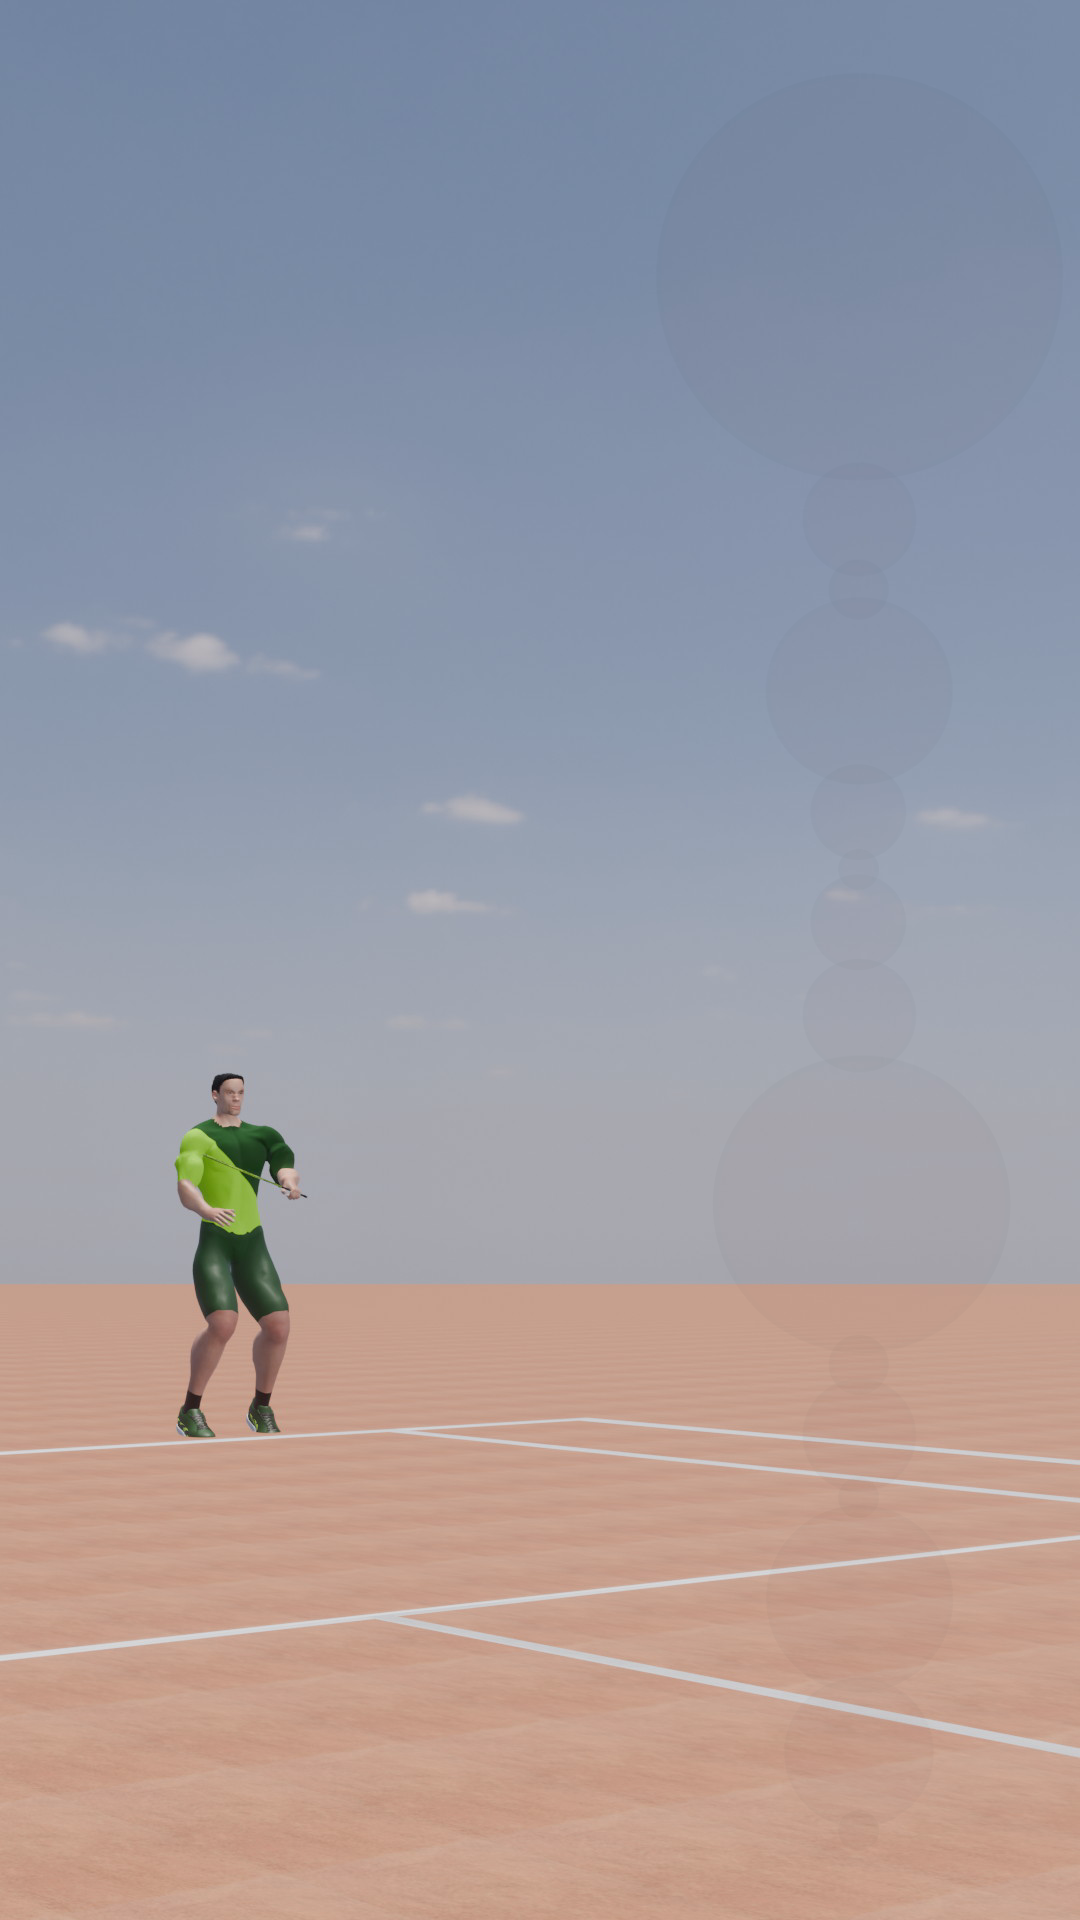
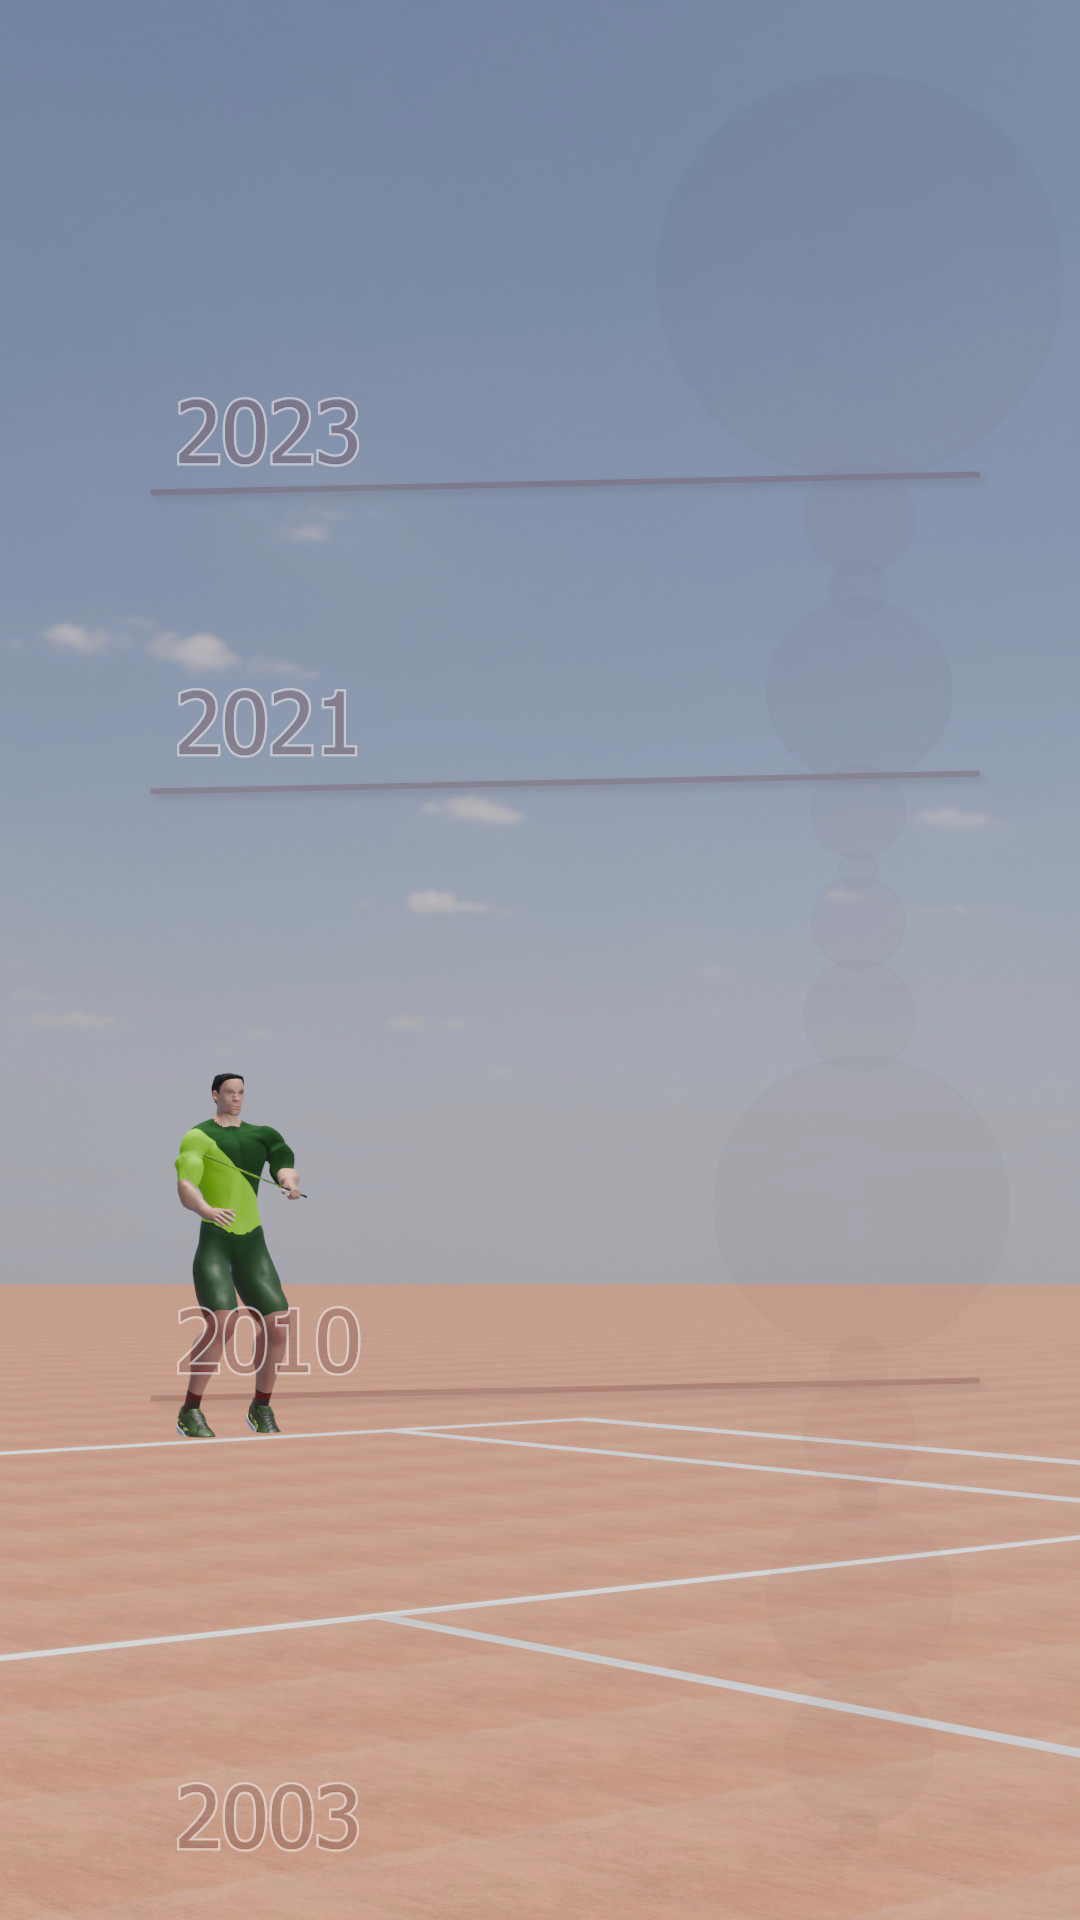
v1.2

diff --git a/styles.css b/styles.css
@@ -1,6 +1,21 @@
 body {
   margin: 0;
+  background-color: #fff8f8;
   font-family: Impact, Haettenschweiler, 'Arial Narrow Bold', sans-serif;
+}
+h1 {
+  font-family: 'Arial', sans-serif;
+  font-size: 2.5em;
+  color: #333; /* Color del texto */
+  text-align: center;
+  margin-bottom: 20px;
+  text-shadow: 2px 2px 4px rgba(0, 0, 0, 0.3); /* Sombra suave */
+}
+p {
+  font-family: Cambria, Cochin, Georgia, Times, 'Times New Roman', serif;
+  width: 80%;
+  margin: auto;
+  padding-bottom: 50px;
 }
 ul {
   list-style: none;
@@ -45,7 +60,7 @@ ul li {
   background-position: center center;
   background-image: url('../premiere/frames_premiere/0000-0860000.png');
 }
-@media only screen and (min-width: 700px){
+@media only screen and (min-width: 700px){ /*ordenador imagen*/
   .image-container {
     height: 100vh;
     width: 100%;
@@ -60,7 +75,8 @@ ul li {
     background-image: url('../premiere/frames_premiere/0000-0860000.png');
   }
 }
-.text-container {
+
+.text-container { /*movil textos*/
     width: 100%;
     height: 100%;
     position: fixed;
@@ -75,7 +91,7 @@ ul li {
       color: darkred;
     text-align: center;
     text-shadow: 1px -3px 2px rgba(0, 0, 0, 0.8);
-    -webkit-text-stroke: 1px white;
+    -webkit-text-stroke: 0.5px white;
     }
     .title { 
       opacity: 0;
@@ -100,7 +116,7 @@ ul li {
     position: absolute;
     margin-right: 10%;
     }
-    @media only screen and (max-width: 699px) {
+    @media only screen and (max-width: 699px) { /*movil cartelas*/
       #cartela-2 {
         margin-top: 75%;
         margin-left: 30%;
@@ -142,7 +158,7 @@ ul li {
     }
     
   }
-  @media only screen and (min-width: 700px){
+  @media only screen and (min-width: 700px){ /*ordenador textos*/
     .text-container {
       width: 35%;
     height: 100%;
@@ -186,13 +202,69 @@ ul li {
     width: 100%;
     position: absolute;
     }
+    .years_texts {
+    width: 100%;
+      height: 100%;
+      position: fixed;
+      display: flex;
+      flex-direction: column;
+      justify-content:center;
+      align-items: start;
+      top: 0;
+      font-family: Cambria, Cochin, Georgia, Times, 'Times New Roman', serif;
+      color: darkred;
+      margin-left: 20%;
+      font-size: 14px;
   }
+  .years_line {
+    width: 20%;
+      height: 50%;
+      border: none;
+      border-bottom: 2px dashed darkred;
+      position: fixed;
+      display: flex;
+      flex-direction: column;
+      justify-content:center;
+      align-items: start;
+      top: 0;
+      margin-left: 20%;
+  }
+  #text23 {
+    justify-content: start;
+    margin-top: 19%;
+  }
+  #line23 {
+    justify-content: center;
+    margin-top: -21%;
+  }
+  #text21 {
+    justify-content: start;
+    margin-top: 32%;
+  }
+  #line21 {
+    justify-content: center;
+    margin-top: -8%;
+  }
+  #text10 {
+    justify-content: start;
+    margin-top: 60%;
+  }
+  #line10 {
+    justify-content: center;
+    margin-top: 20%;
+  }
+  #text03 {
+    justify-content: start;
+    margin-top: 80%;
+  }
+  #line03 {
+    justify-content: center;
+    margin-top: 40%;
+  }
+    }
+
     :root{
       --rojo: darkred;
       --rojosuave: rgba(250, 220, 220, 1);
-
-
-      
-
     }
   }

diff --git a/index.html b/index.html
@@ -3,7 +3,7 @@
 <head>
     <meta charset="UTF-8">
     <meta name="viewport" content="width=device-width, initial-scale=1.0">
-    <title>Nadal</title>
+    <title>¿Cuáles son las lesiones de Nadal?</title>
     <link rel="stylesheet" href="styles.css">
     
     <link rel="preload" as="image" href='frames_premiere/0000-0860000.png'>
@@ -872,6 +872,20 @@
 </head>
 <!-- index.html -->
 <body>
+  <h1>¿Cuáles han sido las lesiones de Nadal?</h1>
+  <p>
+    El tenista español Rafael Nadal Parera ha vuelto a disputar un partido profesional después
+    de la grave lesión que sufrió en enero de 2023, y que le ha mantenido fuera de
+    las pistas durante casi un año.<br><br>
+    A través de un scrollytelling, se muestran visualmente cuáles,
+    cuándo y dónde han sido sus principales lesiones a lo largo de su carrera,
+    que comenzó profesionalmente en 2001, y por la que ha cosechado
+    numerosos premios, como los 22 títulos de Grand Slam que le colocan
+    en el top 2 de tenistas más laureados, por debajo del serbio Novak Djokovic.
+  </p>
+  <p style="text-align: center; height: 100vh; font-weight: bold;">
+    ▾ Desliza para saber más ▾
+  </p>
     <div class='container'>
         <div class="image-container">
 
@@ -960,14 +974,14 @@
           <div class="cartela" id="cartela-11">
             <ul>
               <li class="titulo">CODO DERECHO</li>
-                <li>Un joven Nadal sufrió una caída entrenando que lo mantuvo un mes de baja</li>
+                <li>Un joven Nadal sufrió en 2003 una caída entrenando que lo mantuvo un mes de baja</li>
                 <li>Una pequeña fisura le impidió jugar en Roland Garros</li>
             </ul>
           </div>
         </div>
         
     </div>
-      
+
     <script src="https://code.jquery.com/jquery-3.6.4.min.js"></script>
 
      <script>
